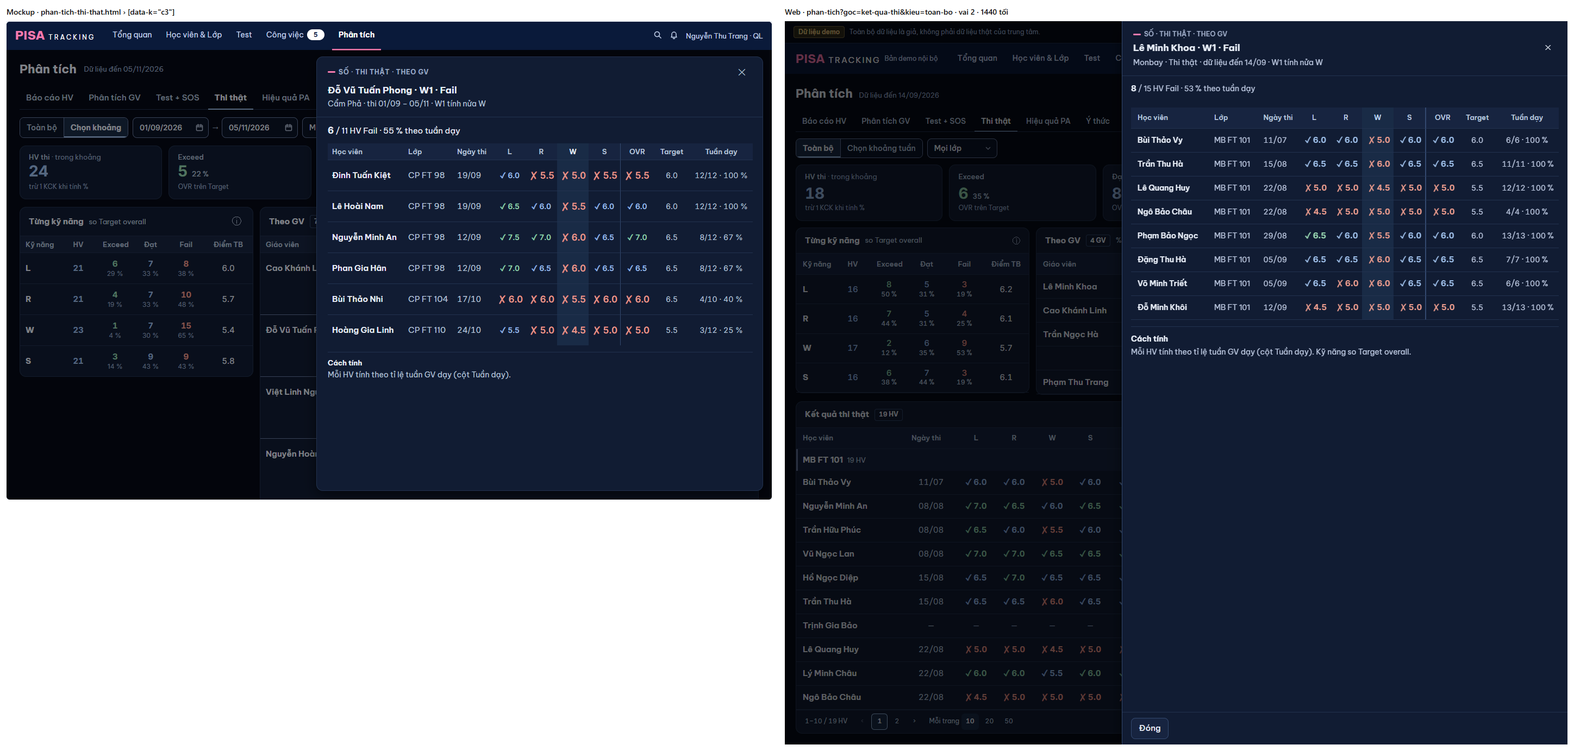
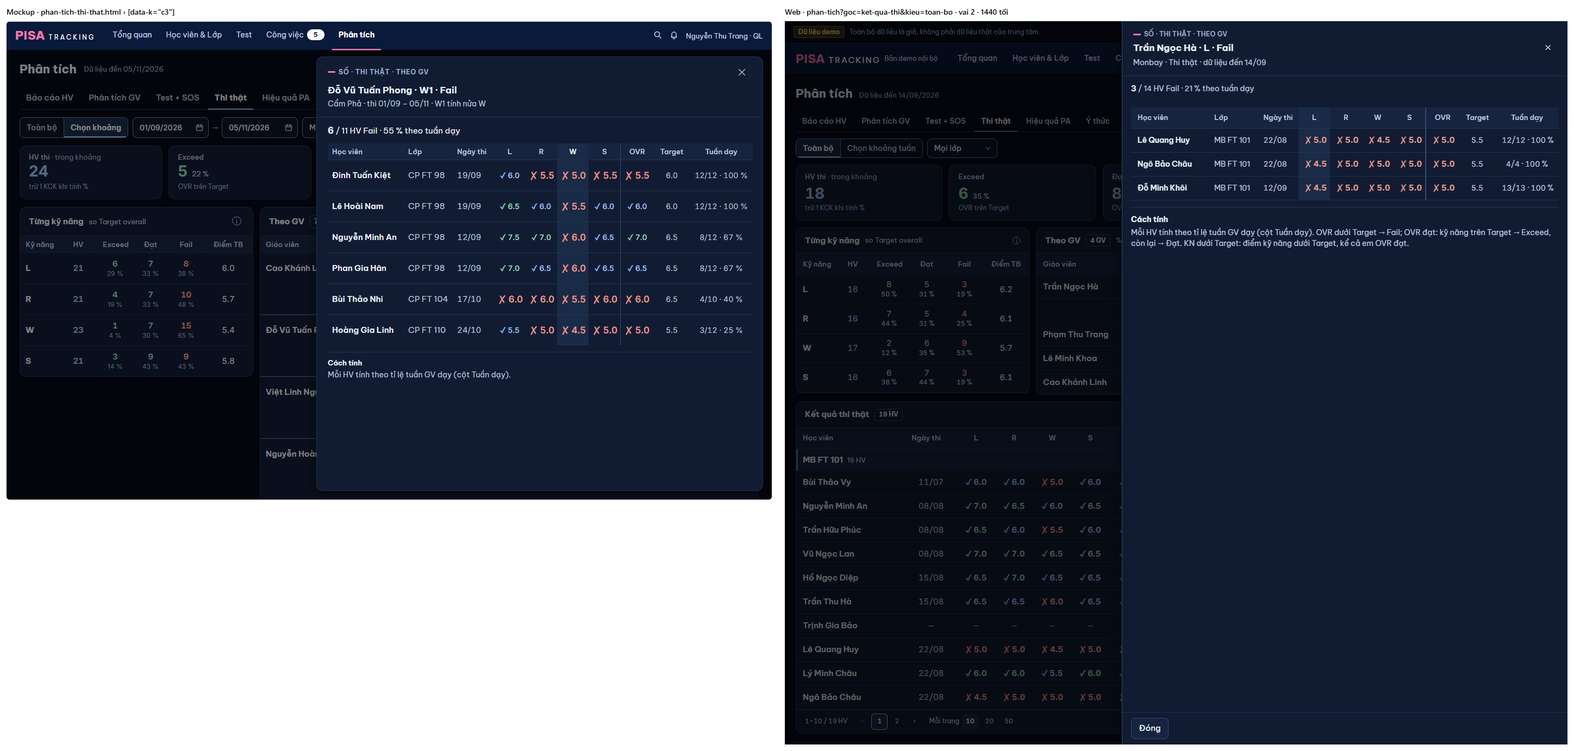
THI-THAT (chủ SP 05/11): Theo GV theo OVR (OVR đạt → Đạt / Exceed) + cột KN dưới Target; so-sanh.md không ghi tên GV

diff --git a/shared/domain/thiThatThongKe.ts b/shared/domain/thiThatThongKe.ts
@@ -1,6 +1,6 @@
 /**
  * THỐNG KÊ THI THẬT (PR-4 THI-THAT, chủ SP 05/11 — đặc tả 2C · 2E · 2F, thay luật C10) — MỘT hàm cho tab Thi thật, Phân tích GV, hồ sơ GV.
- *   Exceed / Đạt / Fail = điểm > · = · < Target overall (OVR cho Tổng; band kỹ năng cho Từng kỹ năng / Theo GV).
+ *   Exceed / Đạt / Fail = điểm > · = · < Target overall (OVR cho Tổng; band kỹ năng cho Từng kỹ năng). Theo GV (chủ SP 05/11): OVR quyết Đạt / Fail, Exceed khi OVR đạt và kỹ năng > Target; "KN dưới Target" riêng.
  *   KCK và em không có Target: đếm ở "HV thi", không vào Exceed / Đạt / Fail. "Không thi" đếm riêng.
  *   Thi lại một kỹ năng (#969): chỉ kỹ năng thi lần này vào Từng kỹ năng / Theo GV; OVR vẫn vào Tổng.
  *   Theo GV: mọi GV từng dạy kỹ năng cho em; trọng số = tuần GV dạy ÷ tổng tuần em học kỹ năng đó (cộng mọi GV). W thi thật → W1 và W2 (mỗi task một dòng).
@@ -22,11 +22,17 @@ export type KqThi = {
 };
 /** Tuần MỘT GV dạy MỘT kỹ năng cho MỘT em trong lộ trình, tới ngày thi. */
 export type DoanDay = { userId: number; kn: KnDay; tuan: number };
-/** Một mục của dòng GV: em (lộ trình) · mức · band · tuần GV dạy / tổng tuần em học kỹ năng · trọng số. */
-export type MucGv = { cycleId: number; muc: MucThi; band: number; tuan: number; tongTuan: number; w: number };
+/**
+ * Một mục của dòng GV: em (lộ trình) · mức · band · tuần GV dạy / tổng tuần em học kỹ năng · trọng số.
+ * Chủ SP 05/11 (sau #978): `muc` theo OVR — OVR < Target → Fail; OVR ≥ Target: band kỹ năng GV dạy > Target → Exceed, còn lại → Đạt.
+ * `duoi`: band kỹ năng < Target (kể cả em OVR đạt) — cột "KN dưới Target" riêng.
+ */
+export type MucGv = { cycleId: number; muc: MucThi; duoi: boolean; band: number; tuan: number; tongTuan: number; w: number };
+/** Mức của em ở dòng GV (chủ SP 05/11): OVR quyết Đạt / Fail; Exceed khi OVR đạt và band kỹ năng GV dạy > Target. */
+export const mucThiGv = (ovr: number, band: number, target: number): MucThi => (ovr < target ? 'fail' : band > target ? 'exceed' : 'dat');
 export type DemMuc = { exceed: number; dat: number; fail: number };
-/** `exceed` · `dat` · `fail` = % theo trọng số; `so` = số HV từng nhóm (= số dòng panel). */
-export type DongGvThi = { userId: number; kn: KnDay; hv: number; tuan: number; tb: number | null; ds: MucGv[]; so: DemMuc } & DemMuc;
+/** `exceed` · `dat` · `fail` · `duoi` (KN dưới Target) = % theo trọng số; `so` = số HV từng nhóm (= số dòng panel). */
+export type DongGvThi = { userId: number; kn: KnDay; hv: number; tuan: number; tb: number | null; ds: MucGv[]; so: DemMuc & { duoi: number }; duoi: number } & DemMuc;
 export type ThongKeThiThat = {
   tong: { thi: number; khongThi: number; kck: number } & DemMuc;
   kyNang: Record<KnThiThat, { hv: number; tb: number | null } & DemMuc>;
@@ -56,7 +62,7 @@ export function thongKeThiThat(kq: readonly KqThi[], day: ReadonlyMap<number, re
   })) as ThongKeThiThat['kyNang'];
 
   const theoGv = new Map<string, { userId: number; kn: KnDay; ds: MucGv[] }>();
-  for (const k of coMuc) {
+  for (const k of coMuc.filter((x) => x.ovr !== null)) {
     const doan = day.get(k.cycleId) ?? [];
     for (const kn of KN_DAY) {
       const band = k[knThi(kn)];
@@ -69,15 +75,16 @@ export function thongKeThiThat(kq: readonly KqThi[], day: ReadonlyMap<number, re
       for (const [userId, tuan] of gop) {
         const khoa = `${userId}:${kn}`;
         (theoGv.get(khoa) ?? theoGv.set(khoa, { userId, kn, ds: [] }).get(khoa)!).ds
-          .push({ cycleId: k.cycleId, muc: mucThi(band, k.target!), band, tuan, tongTuan, w: tuan / tongTuan });
+          .push({ cycleId: k.cycleId, muc: mucThiGv(k.ovr!, band, k.target!), duoi: band < k.target!, band, tuan, tongTuan, w: tuan / tongTuan });
       }
     }
   }
   const tl = (ds: MucGv[], m: MucThi) => ds.filter((x) => x.muc === m).reduce((a, x) => a + x.w, 0);
   const sw = (ds: MucGv[]) => ds.reduce((a, x) => a + x.w, 0);
   const gv: DongGvThi[] = [...theoGv.values()].map(({ userId, kn, ds }) => ({
-    userId, kn, hv: ds.length, tuan: ds.reduce((a, x) => a + x.tuan, 0), tb: mot(ds.reduce((a, x) => a + x.w * x.band, 0) / sw(ds)), ds, so: dem(ds.map((x) => x.muc)),
+    userId, kn, hv: ds.length, tuan: ds.reduce((a, x) => a + x.tuan, 0), tb: mot(ds.reduce((a, x) => a + x.w * x.band, 0) / sw(ds)), ds, so: { ...dem(ds.map((x) => x.muc)), duoi: ds.filter((x) => x.duoi).length },
     exceed: pt(tl(ds, 'exceed'), sw(ds)), dat: pt(tl(ds, 'dat'), sw(ds)), fail: pt(tl(ds, 'fail'), sw(ds)),
+    duoi: pt(ds.filter((x) => x.duoi).reduce((a, x) => a + x.w, 0), sw(ds)),
   }));
   /* GV có Fail (trọng số, mọi kỹ năng) cao nhất trước; trong một GV: L R W1 W2 S. */
   const failGv = new Map<number, number>();

diff --git a/server/src/tests/prThiThatTk.tests.ts b/server/src/tests/prThiThatTk.tests.ts
@@ -46,8 +46,8 @@ export async function runPrThiThatTkTests(t: any) {
     assert(g && g.hv === 2 && g.tuan === 12, `GV 10 · L: 2 em (em tổng 0 không vào), 12 tuần: ${JSON.stringify(g)}`);
     const m = g.ds.find((x: any) => x.cycleId === a.cycleId);
     assert(Math.abs(m.w - 0.67) < 0.01 && m.tuan === 8 && m.tongTuan === 12, `trọng số 8/12: ${JSON.stringify(m)}`);
-    /* fail 0.67 · exceed 1 → fail 40 %, exceed 60 % */
-    assert(g.fail === 40 && g.exceed === 60 && g.dat === 0, `% trọng số: ${JSON.stringify(g)}`);
+    /* Chủ SP 05/11: OVR 6 = Target → không Fail; a (L 5.5) Đạt + dưới Target 0.67 · b (L 6.5) Exceed 1 → Đạt 40 %, Exceed 60 %, KN dưới Target 40 %. */
+    assert(g.fail === 0 && g.exceed === 60 && g.dat === 40 && g.duoi === 40 && g.so.duoi === 1, `% trọng số: ${JSON.stringify(g)}`);
     assert(!r.gv.some((x: any) => x.ds.some((m: any) => m.cycleId === c.cycleId)), 'em tổng tuần 0 không vào gv');
   });
 
@@ -58,15 +58,23 @@ export async function runPrThiThatTkTests(t: any) {
       [k.cycleId, [{ userId: 3, kn: 'l', tuan: 6 }]],
     ]);
     const r = d.thongKeThiThat([a, k], day);
-    assert(r.gv.some((x: any) => x.userId === 1 && x.kn === 'w1' && x.fail === 100), 'W1 có mục fail');
+    assert(r.gv.some((x: any) => x.userId === 1 && x.kn === 'w1' && x.dat === 100 && x.duoi === 100), 'W1: OVR đạt → Đạt, W 5 → KN dưới Target');
     assert(r.gv.some((x: any) => x.userId === 2 && x.kn === 'w2'), 'W2 có mục');
     assert(!r.gv.some((x: any) => x.userId === 3), 'L lấy lại + KCK: GV L không có mục');
   });
 
+  check('THI-THAT · Theo GV theo OVR (chủ SP 05/11): OVR đạt + kỹ năng dưới Target → Đạt + KN dưới; OVR trượt + kỹ năng trên Target → Fail', () => {
+    assert(d.mucThiGv(6, 5.5, 6) === 'dat' && d.mucThiGv(6.5, 7, 6) === 'exceed' && d.mucThiGv(5.5, 7, 6) === 'fail', 'mucThiGv');
+    const a = kq({ ovr: 6.5, r: 5.5, target: 6 }), b = kq({ ovr: 5.5, r: 7, target: 6 });
+    const day = new Map<number, unknown[]>([[a.cycleId, [{ userId: 1, kn: 'r', tuan: 1 }]], [b.cycleId, [{ userId: 1, kn: 'r', tuan: 1 }]]]);
+    const g = d.thongKeThiThat([a, b], day).gv[0];
+    assert(g.so.dat === 1 && g.so.fail === 1 && g.so.exceed === 0 && g.so.duoi === 1 && g.duoi === 50, JSON.stringify(g));
+  });
+
   check('THI-THAT · GV xếp Fail cao trước, trong GV theo L R W1 W2 S', () => {
-    const a = kq({ l: 5, r: 7, s: 5, target: 6 });
-    const day = new Map<number, unknown[]>([[a.cycleId, [{ userId: 1, kn: 's', tuan: 1 }, { userId: 1, kn: 'r', tuan: 1 }, { userId: 2, kn: 'l', tuan: 1 }]]]);
-    const r = d.thongKeThiThat([a], day);
+    const a = kq({ ovr: 6.5, r: 7, s: 5, target: 6 }), b = kq({ ovr: 5.5, l: 5, target: 6 });
+    const day = new Map<number, unknown[]>([[a.cycleId, [{ userId: 1, kn: 's', tuan: 1 }, { userId: 1, kn: 'r', tuan: 1 }]], [b.cycleId, [{ userId: 2, kn: 'l', tuan: 1 }]]]);
+    const r = d.thongKeThiThat([a, b], day);
     assert(r.gv.map((x: any) => `${x.userId}${x.kn}`).join(',') === '2l,1r,1s', `thứ tự: ${r.gv.map((x: any) => `${x.userId}${x.kn}`)}`);
   });
 
@@ -104,9 +112,9 @@ export async function runPrThiThatTkTests(t: any) {
     const r = tk.thiThatTab(P.mbManager, f);
     const w1 = r.thongKe.gv.filter((g: any) => g.kn === 'w1');
     const moi = w1.find((g: any) => g.userId === P.w1Teacher.userId), cu = w1.find((g: any) => g.userId === P.lrTeacher.userId);
-    assert(moi && moi.tuan === 8 && moi.fail === 100, `GV W1 8 tuần, Fail 100 %: ${JSON.stringify(w1)}`);
+    assert(moi && moi.tuan === 8 && moi.dat === 100 && moi.duoi === 100, `GV W1 8 tuần, OVR = Target → Đạt 100 %, W 5.5 → KN dưới Target 100 %: ${JSON.stringify(w1)}`);
     assert(cu && cu.tuan === 4, `GV cũ 4 tuần: ${JSON.stringify(cu)}`);
-    const o = tk.oThiThat(P.mbManager, { ...f, o: `gv:${P.w1Teacher.userId}:w1:fail` });
+    const o = tk.oThiThat(P.mbManager, { ...f, o: `gv:${P.w1Teacher.userId}:w1:duoi` });
     const r0 = o.rows[0]?.thiThat;
     assert(o.n === 1 && r0.cycleId === cy && r0.tuan.day === 8 && r0.tuan.tong === 12 && r0.kn.w.kq === 'duoi' && r0.ovr.kq === 'bang', `panel P-GV 8/12: ${JSON.stringify(o.rows)}`);
     assert(o.kieu === 'thi-that' && o.knNhan === 'W1', 'kiểu thi-that, cột W1 tô nền');
@@ -132,7 +140,7 @@ export async function runPrThiThatTkTests(t: any) {
     for (const m of ['exceed', 'dat', 'fail']) so(`tong:${m}`, r.thongKe.tong[m]);
     for (const k of ['l', 'r', 'w', 's']) for (const m of ['hv', 'exceed', 'dat', 'fail']) so(`kn:${k}:${m}`, r.thongKe.kyNang[k][m]);
     for (const g of r.thongKe.gv) {
-      so(`gv:${g.userId}:${g.kn}:hv`, g.hv);
+      so(`gv:${g.userId}:${g.kn}:hv`, g.hv); so(`gv:${g.userId}:${g.kn}:duoi`, g.so.duoi);
       const c = ['exceed', 'dat', 'fail'].reduce((a, m) => a + n(`gv:${g.userId}:${g.kn}:${m}`), 0);
       if (c !== g.hv) sai.push(`gv ${g.userId} ${g.kn}: E+Đ+F ${c} ≠ ${g.hv}`);
     }

diff --git a/web/src/modules/phanTich/KetQuaThi.tsx b/web/src/modules/phanTich/KetQuaThi.tsx
@@ -157,11 +157,12 @@ function BangKyNang({ tk, so }: { tk: ThongKeThiThatWeb; so: So }) {
 const cachTinhGv = (
   <>
     <p className="m-0">{t('Mọi GV từng dạy kỹ năng cho HV đều tính. % theo tuần dạy: mỗi HV tính theo tuần GV dạy kỹ năng đó ÷ tổng tuần HV học kỹ năng đó, tới ngày thi.')}</p>
+    <p className="m-0 mt-1">{t('OVR dưới Target → Fail; OVR đạt: kỹ năng GV dạy trên Target → Exceed, còn lại → Đạt. KN dưới Target: điểm kỹ năng dưới Target, kể cả HV OVR đạt (cột riêng, không cộng vào Exceed · Đạt · Fail).')}</p>
     <p className="m-0 mt-1">{t('W1 / W2: mỗi task tính nửa W, cùng band W thi thật. GV có Fail cao trước.')}</p>
   </>
 );
 /** % một nhóm của dòng GV: số = % theo tuần dạy; bấm → HV của nhóm đó (số dòng = HV, đầu panel ghi %). 0 HV → "0 %" mờ. */
-const oPct = (g: DongGvThiWeb, m: MucThi, so: So) => so(g.so[m], `gv:${g.userId}:${g.kn}:${m}`, `${g.ten} · ${NHAN_KN[g.kn]} · ${NHAN_MUC[m]}`, MAU_MUC[m], `${g[m]} %`);
+const oPct = (g: DongGvThiWeb, m: MucThi | 'duoi', so: So) => so(g.so[m], `gv:${g.userId}:${g.kn}:${m}`, `${g.ten} · ${NHAN_KN[g.kn]} · ${m === 'duoi' ? t('KN dưới Target') : NHAN_MUC[m]}`, MAU_MUC[m === 'duoi' ? 'fail' : m], `${g[m]} %`);
 const nhomGv = (gv: DongGvThiWeb[]) => {
   const ds: { userId: number; ten: string; hang: DongGvThiWeb[] }[] = [];
   for (const g of gv) { const cu = ds.find((x) => x.userId === g.userId); if (cu) cu.hang.push(g); else ds.push({ userId: g.userId, ten: g.ten, hang: [g] }); }
@@ -177,10 +178,11 @@ function BangGv({ gv, so }: { gv: DongGvThiWeb[]; so: So }) {
       {!nhom.length ? <p className="m-0 p-4 text-sm text-dim">{t('Chưa có phân công kỹ năng cho HV thi trong khoảng này.')}</p> : (
         <div className="table-scroll">
           <table className="w-full" style={{ tableLayout: 'fixed', minWidth: 660 }}>
-            <colgroup><col style={{ width: 180 }} /><col style={{ width: 70 }} /><col style={{ width: 56 }} /><col style={{ width: 80 }} /><col style={{ width: 80 }} /><col /><col /><col /></colgroup>
+            <colgroup><col style={{ width: 170 }} /><col style={{ width: 64 }} /><col style={{ width: 52 }} /><col style={{ width: 76 }} /><col style={{ width: 76 }} /><col /><col /><col /><col style={{ width: 124 }} /></colgroup>
             <thead><tr>
               <th className="th">{t('Giáo viên')}</th><th className="th">{t('Kỹ năng')}</th><th className="th text-center">HV</th><th className="th text-center">{t('Tuần dạy')}</th>
               <th className="th text-center">{t('Điểm TB')}</th>{MUC.map((m) => <th key={m} className="th text-center">{NHAN_MUC[m]}</th>)}
+              <th className="th border-l text-center" style={{ borderColor: 'var(--line)' }}>{t('KN dưới Target')}</th>
             </tr></thead>
             <tbody>
               {nhom.map((n, i) => n.hang.map((g, j) => (
@@ -191,6 +193,7 @@ function BangGv({ gv, so }: { gv: DongGvThiWeb[]; so: So }) {
                   <td className="td text-center tabular-nums text-dim">{g.tuan}</td>
                   <td className="td text-center tabular-nums">{g.tb === null ? '—' : fmtBand(g.tb)}</td>
                   {MUC.map((m) => <td key={m} className="td text-center">{oPct(g, m, so)}</td>)}
+                  <td className="td border-l text-center" style={{ borderColor: 'var(--line)' }}>{oPct(g, 'duoi', so)}</td>
                 </tr>
               )))}
             </tbody>
@@ -216,9 +219,9 @@ function TheGv({ gv, so }: { gv: DongGvThiWeb[]; so: So }) {
           {n.hang.map((g) => (
             <div key={g.kn} className="grid grid-cols-[28px_1fr] items-center gap-2 border-t pt-1.5" style={{ borderColor: 'var(--line)' }}>
               <b className="text-sm">{NHAN_KN[g.kn]}</b>
-              <div className="grid grid-cols-6 gap-1">
+              <div className="grid grid-cols-4 gap-x-1 gap-y-1.5">
                 {o('HV', so(g.hv, `gv:${g.userId}:${g.kn}:hv`, `HV · ${g.ten} · ${NHAN_KN[g.kn]}`))}{o(t('Tuần'), <span className="font-normal text-dim">{g.tuan}</span>)}
-                {o('TB', g.tb === null ? '—' : fmtBand(g.tb))}{MUC.map((m) => <Fragment key={m}>{o(NHAN_MUC[m], oPct(g, m, so))}</Fragment>)}
+                {o('TB', g.tb === null ? '—' : fmtBand(g.tb))}{MUC.map((m) => <Fragment key={m}>{o(NHAN_MUC[m], oPct(g, m, so))}</Fragment>)}{o(t('KN dưới'), oPct(g, 'duoi', so))}
               </div>
             </div>
           ))}

diff --git a/server/src/phanTich/thiThatThongKe.ts b/server/src/phanTich/thiThatThongKe.ts
@@ -80,17 +80,17 @@ export function thiThatTab(p: Principal, f: LocKetQuaThi): ThiThatTabKq {
   };
 }
 
-const NHAN_MUC = { hv: 'HV', exceed: 'Exceed', dat: 'Đạt', fail: 'Fail' } as const;
+const NHAN_MUC = { hv: 'HV', exceed: 'Exceed', dat: 'Đạt', fail: 'Fail', duoi: 'KN dưới Target' } as const;
 const NHAN_KN: Record<KnDay | KnThiThat, string> = { l: 'L', r: 'R', w: 'W', w1: 'W1', w2: 'W2', s: 'S' };
 
 /**
  * GET /phan-tich/thi-that/o — panel một ô. `o`: `tong:<thi|exceed|dat|fail|khong-thi>` · `kn:<l|r|w|s>:<hv|exceed|dat|fail>` ·
- * `gv:<userId>:<l|r|w1|w2|s>:<hv|exceed|dat|fail>` (chỉ vai Theo GV — 403). Lọc CHÍNH tập sinh ra số.
+ * `gv:<userId>:<l|r|w1|w2|s>:<hv|exceed|dat|fail|duoi>` (chỉ vai Theo GV — 403). Lọc CHÍNH tập sinh ra số.
  */
 export function oThiThat(p: Principal, f: LocKetQuaThi & { o: string }): {
   n: number; tieuDe: string; rows: { id: number; thiThat: DongThiThatBang }[]; bangLuot: true; kieu: 'thi-that'; knNhan: string | null; cachTinh: string; chiNhanh: string | null; dem: string | null;
 } {
-  const m = /^(?:tong:(thi|exceed|dat|fail|khong-thi)|kn:([lrws]):(hv|exceed|dat|fail)|gv:(\d+):(l|r|w1|w2|s):(hv|exceed|dat|fail))$/.exec(f.o);
+  const m = /^(?:tong:(thi|exceed|dat|fail|khong-thi)|kn:([lrws]):(hv|exceed|dat|fail)|gv:(\d+):(l|r|w1|w2|s):(hv|exceed|dat|fail|duoi))$/.exec(f.o);
   if (!m) throw badRequest('Số này không có trong Thi thật — có thể bộ lọc vừa đổi.');
   if (m[4] && !coTheoGv(p)) throw forbidden('Theo GV dành cho Quản lý, Quản trị và CX.');
   const ds = thiThatTrongKhoang(p, f, { boQuyen: true });
@@ -120,13 +120,13 @@ export function oThiThat(p: Principal, f: LocKetQuaThi & { o: string }): {
     const user = Number(m[4]), kn = m[5] as KnDay;
     const g = thongKeThiThat(ds.map((x) => x.kq), tuanDay(ds).day).gv.find((x) => x.userId === user && x.kn === kn);
     const theoId = new Map(ds.map((x) => [x.kq.cycleId, x]));
-    rows = (g?.ds ?? []).filter((x) => m[6] === 'hv' || x.muc === m[6]).map((x) => dong(theoId.get(x.cycleId)!, { day: x.tuan, tong: x.tongTuan }));
+    rows = (g?.ds ?? []).filter((x) => m[6] === 'hv' || (m[6] === 'duoi' ? x.duoi : x.muc === m[6])).map((x) => dong(theoId.get(x.cycleId)!, { day: x.tuan, tong: x.tongTuan }));
     /* C3: "6 / 11 HV Fail · 55 % theo tuần dạy" — số HV của nhóm / HV của dòng GV, % trọng số (số trên ô). */
-    if (g && m[6] !== 'hv') dem = t('{a} / {b} HV {nhan} · {pt} % theo tuần dạy', { a: rows.length, b: g.hv, nhan: NHAN_MUC[m[6] as 'fail'], pt: g[m[6] as 'fail'] });
+    if (g && m[6] !== 'hv') dem = t('{a} / {b} HV {nhan} · {pt} % theo tuần dạy', { a: rows.length, b: g.hv, nhan: NHAN_MUC[m[6] as 'fail'], pt: g[m[6] as 'fail' | 'duoi'] });
     nhan = `${NHAN_MUC[m[6] as 'hv']} · ${NHAN_KN[kn]}`;
     knNhan = NHAN_KN[kn];
   }
-  const cachTinh = m[4] ? 'Mỗi HV tính theo tỉ lệ tuần GV dạy (cột Tuần dạy). Kỹ năng so Target overall.'
+  const cachTinh = m[4] ? 'Mỗi HV tính theo tỉ lệ tuần GV dạy (cột Tuần dạy). OVR dưới Target → Fail; OVR đạt: kỹ năng trên Target → Exceed, còn lại → Đạt. KN dưới Target: điểm kỹ năng dưới Target, kể cả em OVR đạt.'
     : m[2] ? 'Điểm kỹ năng so Target overall. Thi lại một kỹ năng: chỉ kỹ năng thi lần này. Không tính HV KCK.'
       : 'OVR so Target: trên = Exceed · bằng = Đạt · dưới = Fail. HV KCK không vào %.';
   return { n: rows.length, tieuDe: t('{nhan} · {n} HV', { nhan, n: rows.length }), rows: rows.map((r, i) => ({ id: i + 1, thiThat: r })), bangLuot: true, kieu: 'thi-that', knNhan, cachTinh, chiNhanh: tenChiNhanh(f.branchId), dem };

diff --git a/shared/i18n/en/thiThat.ts b/shared/i18n/en/thiThat.ts
@@ -6,7 +6,7 @@ export const EN_THI_THAT = {
   '{nhan} · {n} HV': (b) => `${b.nhan} · ${b.n} ${Number(b.n) === 1 ? 'student' : 'students'}`,
   'tuần dạy {a}/{b}': 'taught {a}/{b} weeks',
   '{nhan} · {ai} · {dung}/{tong} lượt kỹ năng': '{nhan} · {ai} · {dung}/{tong} skill results',
-  'Mỗi HV tính theo tỉ lệ tuần GV dạy (cột Tuần dạy). Kỹ năng so Target overall.': 'Each student counts by the share of weeks this teacher taught (Weeks taught column). Skills are compared with the overall Target.',
+  'Mỗi HV tính theo tỉ lệ tuần GV dạy (cột Tuần dạy). OVR dưới Target → Fail; OVR đạt: kỹ năng trên Target → Exceed, còn lại → Đạt. KN dưới Target: điểm kỹ năng dưới Target, kể cả em OVR đạt.': 'Each student counts by the share of weeks this teacher taught (Weeks taught column). OVR below Target → Fail; OVR met: skill above Target → Exceed, otherwise → Pass. Skill below Target: skill band below Target, even when OVR is met.',
   'Điểm kỹ năng so Target overall. Thi lại một kỹ năng: chỉ kỹ năng thi lần này. Không tính HV KCK.': 'Skill band compared with the overall Target. Resit of one skill: only the skill sat this time. KCK students not counted.',
   'OVR so Target: trên = Exceed · bằng = Đạt · dưới = Fail. HV KCK không vào %.': 'OVR vs Target: above = Exceed · equal = Pass · below = Fail. KCK students are left out of %.',
   'trong khoảng': "in range",
@@ -37,4 +37,8 @@ export const EN_THI_THAT = {
   '{a} / {b} HV {nhan} · {pt} % theo tuần dạy': '{a} / {b} students {nhan} · {pt} % by weeks taught',
   'SỐ · THI THẬT · THEO GV': 'NUMBER · REAL EXAM · BY TEACHER',
   '{kn} tính nửa W': '{kn} counts as half of W',
+  'dưới Target': 'below Target',
+  'KN dưới Target': 'Skill below Target',
+  'OVR dưới Target → Fail; OVR đạt: kỹ năng GV dạy trên Target → Exceed, còn lại → Đạt. KN dưới Target: điểm kỹ năng dưới Target, kể cả HV OVR đạt (cột riêng, không cộng vào Exceed · Đạt · Fail).': 'OVR below Target → Fail; OVR met: skill this teacher taught above Target → Exceed, otherwise → Pass. Skill below Target: skill band below Target, even when OVR is met (separate column, not part of Exceed · Pass · Fail).',
+  'KN dưới': 'Skill below',
 } satisfies Record<string, Dich>;

diff --git a/server/src/tests/prPtGvOverall.tests.ts b/server/src/tests/prPtGvOverall.tests.ts
@@ -74,7 +74,7 @@ export async function runPrPtGvOverallTests(t: YThucTestKit) {
     assert(ketQuaEm(e.sid, 'reading') === null && ketQuaEm(e.sid, 'listening') === null, 'không vào mẫu');
   }));
   /* 2F (chủ SP 05/11) thay C10: thi thật KHÔNG còn ở cột Kết quả Test; mỗi kỹ năng so Target overall (OVR đạt không kéo kỹ năng thành Đạt), mọi GV từng dạy. */
-  check('THI-THAT 2F · OVR 6.5 = Target nhưng R 5.5 → R Fail cho GV R; L 7.0 → Exceed; W → cả GV W2; không vào cột Kết quả Test', () => thu(() => {
+  check('THI-THAT 2F (chủ SP 05/11) · OVR 6.5 = Target, R 5.5 → GV R vẫn Đạt + ghi dưới Target; L 7.0 → Exceed; W → cả GV W2; không vào cột Kết quả Test', () => thu(() => {
     const e = emMoi();
     boLichTuTao(conn, e.cy);
     conn.prepare(`UPDATE learning_cycles SET thi_that_ngay = ?, thi_that_l = 7.0, thi_that_r = 5.5, thi_that_w = 6.5, thi_that_s = 7.0, outcome_score = 6.5, outcome = 'reached' WHERE id = ?`).run(D, e.cy);
@@ -84,7 +84,8 @@ export async function runPrPtGvOverallTests(t: YThucTestKit) {
       const gv = get(`SELECT user_id FROM teacher_assignments WHERE class_id = ? AND skill = ? AND status = 'active' ORDER BY id DESC LIMIT 1`, MB_FT, skill)?.user_id;
       return pt.oChiSoHoSoGv(P.admin, gv, { tu: tuanNay, den: tuanNay, cot: `thi-that-ky:${skill}` }).rows.find((x: any) => x.href === `/hoc-vien/${e.sid}`);
     };
-    assert(dong('reading')?.ketQua === 'chua', `R 5.5 < 6.5 → Fail: ${JSON.stringify(dong('reading'))}`);
+    const r = dong('reading');
+    assert(r?.ketQua === 'dat' && /dưới Target/.test(r.sub), `OVR đạt → Đạt, R 5.5 ghi dưới Target: ${JSON.stringify(r)}`);
     const l = dong('listening');
     assert(l?.ketQua === 'dat' && l.vuot === true, `L 7.0 > 6.5 → Exceed: ${JSON.stringify(l)}`);
     assert(dong('writing2')?.ketQua === 'dat', 'W thi thật tính cho GV W2');

diff --git a/server/src/phanTich/giaoVien.ts b/server/src/phanTich/giaoVien.ts
@@ -898,7 +898,7 @@ function oChiSoHoSoGvDu(p: Principal, gvId: number, q: { tu?: string | null; den
         diemHv: { luot: t('Thi thật'), tuan: x.ngayThi ?? '', tam: false, overall: kq.ovr, soVoi,
           kn: (['l', 'r', 'w', 's'] as const).map((k) => ({ k: k.toUpperCase(), v: kq[k], dat: kq[k] === null || kq.target === null ? null : kq[k]! >= kq.target, cua: k === m.kn[0] })) },
         /* một em có thể có nhiều mục (nhiều kỹ năng, hai lần thi) — id theo dòng */ id: i + 1, title: x.ten, href: `/hoc-vien/${x.studentId}`, lop: x.lop,
-        sub: [x.lop, `${t('Thi thật')} ${ngay}`, `${kn} ${m.band.toFixed(1)}`, soVoi ? `Target ${soVoi.v.toFixed(1)}` : null,
+        sub: [x.lop, `${t('Thi thật')} ${ngay}`, `${kn} ${m.band.toFixed(1)}${m.duoi ? ` (${t('dưới Target')})` : ''}`, soVoi ? `Target ${soVoi.v.toFixed(1)}` : null,
           t('tuần dạy {a}/{b}', { a: m.tuan, b: m.tongTuan }), NHAN_MUC_THI[m.muc]].filter(Boolean).join(' · '),
       };
     });

diff --git a/docs/anh/thi-that/so-sanh.md b/docs/anh/thi-that/so-sanh.md
@@ -1,35 +1,35 @@
-# THI-THAT — so số thi thật theo GV: luật C10 (trước) → luật 2F (sau), bản sao 29/10
+# THI-THAT — so số thi thật theo GV: luật C10 (trước) → luật mới (sau), bản sao 29/10
 
-Nguồn: `pisa-pisatracking-261028-pizi147-2026-10-29-2255.sqlite` (chép vào scratchpad, migrate cục bộ cho có cột `thi_that_lay_lai`), **chỉ đọc**.
+Nguồn: bản sao Turso 29/10 (chép vào scratchpad, migrate cục bộ cho có cột `thi_that_lay_lai`), **chỉ đọc**. GV ghi bằng mã (`users.id`) — dữ liệu thật, không ghi tên vào repo; bảng có tên: chạy lại với `CO_TEN=1`.
 Lệnh: `PISA_DB=<bản sao> node docs/anh/thi-that/so-sanh.mjs <thư mục repo>` (sau `npm run build:server`). Khoảng: toàn bộ.
 
 - Kết quả thi thật đủ 4 kỹ năng: **20** (10/10 – 25/10), KCK 0.
-- Phân công thiếu `effective_to`: **416** dòng kỹ năng + 88 GVCN — **đều `active`** (đang dạy); dòng `ended` thiếu ngày: **0**. Luật mới tính tới ngày thi → không cần rơi về "mỗi GV từng dạy = 1 em".
-- Trước: Pass Target theo LẦN THI, chỉ GV lớp lúc thi, OVR đạt → mọi kỹ năng Đạt. Sau: mục = em × kỹ năng GV từng dạy (W1 / W2 riêng), kỹ năng so Target overall, % theo tuần dạy.
-- **10 / 23 dòng GV đổi %** (ví dụ Thea Marie Gemino 38 % → 0 %: em đạt OVR nhưng kỹ năng cô dạy dưới Target; Đoàn Thị Thanh Phương MB 0 % → 100 %: OVR trượt nhưng kỹ năng cô dạy đạt). Weighted ≈ không trọng số vì bản sao hầu như một GV / kỹ năng / em.
+- Phân công thiếu `effective_to`: **416** dòng kỹ năng + 88 GVCN — **đều `active`**; dòng `ended` thiếu ngày: **0** → tính tới ngày thi, không cần rơi về "mỗi GV từng dạy = 1 em".
+- Trước (C10): Pass Target theo LẦN THI, chỉ GV lớp lúc thi. Sau (chủ SP 05/11, sửa #978): mục = em × kỹ năng GV từng dạy (W1 / W2 riêng), **OVR quyết Đạt / Fail** (OVR đạt → Đạt; Exceed khi kỹ năng GV dạy > Target), % theo tuần dạy; cột riêng **KN dưới Target** (kỹ năng < Target, kể cả em OVR đạt).
+- **% Pass đổi: 1 / 23 dòng GV** (GV #1 · CP: 60 % → 67 % — tính thêm em GV từng dạy ở lớp trước). KN dưới Target là số mới (không có ở C10).
 
-| Chi nhánh | GV | Trước (C10: Pass Target theo lần thi) | Sau (2F: mục em × kỹ năng, % theo tuần dạy) |
-|---|---|---|---|
-| BC | Đinh Nguyễn Bảo Phúc | 1/1 lần thi · 100 % | 1/2 mục · 50 % (tuần dạy) |
-| BC | Tô Trần Quốc Thắng | 1/1 lần thi · 100 % | 1/1 mục · 100 % (tuần dạy) |
-| BC | Trần Đoàn Lâm | 1/1 lần thi · 100 % | 2/2 mục · 100 % (tuần dạy) |
-| CP | Đỗ Vũ Tuấn Phong | 3/5 lần thi · 60 % | 5/9 mục · 56 % (tuần dạy) |
-| CP | Hoàng Thị Thu Hà | 3/4 lần thi · 75 % | 4/8 mục · 50 % (tuần dạy) |
-| CP | Miguel Stichini | 0/1 lần thi · 0 % | 0/1 mục · 0 % (tuần dạy) |
-| CP | Nguyễn Duy Anh | 0/3 lần thi · 0 % | 0/3 mục · 0 % (tuần dạy) |
-| CP | Nguyễn Hoàng Dũng | 0/5 lần thi · 0 % | 3/10 mục · 30 % (tuần dạy) |
-| CP | Nguyễn Thị Bảo Châu | 0/7 lần thi · 0 % | 4/14 mục · 29 % (tuần dạy) |
-| CP | Thea Marie Gemino | 3/8 lần thi · 38 % | 0/8 mục · 0 % (tuần dạy) |
-| CP | Trần Thị Thanh Hằng | 0/1 lần thi · 0 % | 0/1 mục · 0 % (tuần dạy) |
-| CP | Vũ Hương Liên | 0/3 lần thi · 0 % | 1/6 mục · 17 % (tuần dạy) |
-| MB | Deo Lumogdang | 0/2 lần thi · 0 % | 0/2 mục · 0 % (tuần dạy) |
-| MB | Đặng Thái Hà | 0/2 lần thi · 0 % | 0/2 mục · 0 % (tuần dạy) |
-| MB | Đoàn Thị Thanh Phương | 0/2 lần thi · 0 % | 2/2 mục · 100 % (tuần dạy) |
-| MB | Đỗ Hà Thu | 0/1 lần thi · 0 % | 2/2 mục · 100 % (tuần dạy) |
-| MB | Lê Trần Huy | 0/1 lần thi · 0 % | 0/2 mục · 0 % (tuần dạy) |
-| MB | Nguyễn Tường Vi | 0/1 lần thi · 0 % | 0/1 mục · 0 % (tuần dạy) |
-| MB | Trần Đoàn Lâm | 0/2 lần thi · 0 % | 0/4 mục · 0 % (tuần dạy) |
-| UB | Bùi Huy Thành | 0/1 lần thi · 0 % | 0/2 mục · 0 % (tuần dạy) |
-| UB | Đoàn Thị Thanh Phương | 0/1 lần thi · 0 % | 1/1 mục · 100 % (tuần dạy) |
-| UB | Tạ Hồng Liên | 0/1 lần thi · 0 % | 0/1 mục · 0 % (tuần dạy) |
-| UB | Trần Doãn Đạt | 0/1 lần thi · 0 % | 0/1 mục · 0 % (tuần dạy) |
+| Chi nhánh | GV | Trước (C10: Pass theo lần thi) | Sau (Pass theo OVR · mục em × kỹ năng · % tuần dạy) | KN dưới Target (% tuần dạy) | % Pass |
+|---|---|---|---|---|---|
+| BC | GV #18 | 1/1 lần thi · 100 % | 2/2 mục · 100 % | 0 % |  |
+| BC | GV #31 | 1/1 lần thi · 100 % | 1/1 mục · 100 % | 0 % |  |
+| BC | GV #41 | 1/1 lần thi · 100 % | 2/2 mục · 100 % | 50 % |  |
+| CP | GV #1 | 3/5 lần thi · 60 % | 6/9 mục · 67 % | 44 % | đổi |
+| CP | GV #16 | 0/7 lần thi · 0 % | 0/14 mục · 0 % | 71 % |  |
+| CP | GV #17 | 0/3 lần thi · 0 % | 0/3 mục · 0 % | 100 % |  |
+| CP | GV #21 | 0/5 lần thi · 0 % | 0/10 mục · 0 % | 70 % |  |
+| CP | GV #29 | 3/4 lần thi · 75 % | 6/8 mục · 75 % | 50 % |  |
+| CP | GV #30 | 0/3 lần thi · 0 % | 0/6 mục · 0 % | 83 % |  |
+| CP | GV #42 | 3/8 lần thi · 38 % | 3/8 mục · 38 % | 100 % |  |
+| CP | GV #43 | 0/1 lần thi · 0 % | 0/1 mục · 0 % | 100 % |  |
+| CP | GV #6 | 0/1 lần thi · 0 % | 0/1 mục · 0 % | 100 % |  |
+| MB | GV #13 | 0/1 lần thi · 0 % | 0/2 mục · 0 % | 0 % |  |
+| MB | GV #18 | 0/2 lần thi · 0 % | 0/4 mục · 0 % | 100 % |  |
+| MB | GV #24 | 0/1 lần thi · 0 % | 0/2 mục · 0 % | 100 % |  |
+| MB | GV #35 | 0/1 lần thi · 0 % | 0/1 mục · 0 % | 100 % |  |
+| MB | GV #5 | 0/2 lần thi · 0 % | 0/2 mục · 0 % | 100 % |  |
+| MB | GV #53 | 0/2 lần thi · 0 % | 0/2 mục · 0 % | 100 % |  |
+| MB | GV #8 | 0/2 lần thi · 0 % | 0/2 mục · 0 % | 0 % |  |
+| UB | GV #26 | 0/1 lần thi · 0 % | 0/1 mục · 0 % | 100 % |  |
+| UB | GV #40 | 0/1 lần thi · 0 % | 0/1 mục · 0 % | 100 % |  |
+| UB | GV #54 | 0/1 lần thi · 0 % | 0/2 mục · 0 % | 100 % |  |
+| UB | GV #8 | 0/1 lần thi · 0 % | 0/1 mục · 0 % | 0 % |  |

diff --git a/docs/anh/thi-that/khop-khac.md b/docs/anh/thi-that/khop-khac.md
@@ -10,6 +10,7 @@ Mockup: `thiet-ke/v13/phan-tich-thi-that.html`. Ảnh cặp mockup | web: `truoc
 | C1 | 5 thẻ: HV thi · Exceed · Đạt · Fail (số + %) · Không thi | `KetQuaThi.tsx` `DaiChiSo` | sau-c1 | KHỚP |
 | C1 | Từng kỹ năng (KN · HV · Exceed · Đạt · Fail · Điểm TB, % mờ dưới) | `BangKyNang` | sau-c1 | KHỚP |
 | C1 | Theo GV (GV × kỹ năng, Fail cao trước, tên GV dòng đầu, kẻ giữa GV) | `BangGv` | sau-c1 | KHỚP — chiều cao dòng giữ 44 px như bảng web (mockup ~56 px do lưới giãn) |
+| C1 | **Chủ SP 05/11 (sau #978):** Theo GV theo OVR (OVR < Target → Fail; OVR đạt: kỹ năng > Target → Exceed, còn lại Đạt) + cột riêng **KN dưới Target** (% tuần dạy, chữ đỏ, kẻ tách) | `mucThiGv`, `BangGv`, `TheGv` | sau-c1 · sau-c3 · sau-c4 | THÊM (ngoài mockup, theo lời chủ SP) |
 | C1 | Danh sách: L R W S · OVR · Target · Kết quả (Exceed / Đạt / Fail) · Bước tiếp | `DanhSach` | sau-c1 | KHỚP — giữ nhóm lớp, phân trang, Bước tiếp chỉ đọc |
 | C1 | Hàng lọc (thời gian, lớp), Xuất Excel | nền cũ | sau-c1 | GIỮ nền web (chủ SP 05/11: phần nền giữ web) — ô "Toàn bộ \| Chọn khoảng tuần" giữ, không đổi sang ô ngày |
 | C2 | Panel P-TT (cột kỹ năng đang xét tô nền) | `BangLuotPanel` kiểu `'thi-that'` | sau-c2 | KHỚP — khung panel cạnh phải như P-FT (#976) |
@@ -32,7 +33,8 @@ Mockup: `thiet-ke/v13/phan-tich-thi-that.html`. Ảnh cặp mockup | web: `truoc
 | Lọc thời gian · lớp · chi nhánh | có | có | GIỮ |
 | Phân trang 10 / 20 / 50 | có | có | GIỮ |
 | Tên em / mã lớp → hồ sơ | có | có (cả panel) | GIỮ |
-| Phân tích GV · hồ sơ GV "Kết quả thi thật" | % Pass Target theo lần thi, GV lớp cuối (C10) | % theo tuần dạy; n/m = mục em × kỹ năng GV từng dạy; panel một dòng một mục | ĐỔI SỐ, giữ bố cục (2F) |
+| Phân tích GV · hồ sơ GV "Kết quả thi thật" | % Pass Target theo lần thi, GV lớp cuối (C10) | % theo tuần dạy; n/m = mục em × kỹ năng GV từng dạy; Pass theo OVR (chủ SP 05/11); panel một dòng một mục, kỹ năng dưới Target ghi "(dưới Target)" | ĐỔI SỐ, giữ bố cục (2F) |
+| Bấm % "KN dưới Target" (Theo GV) | không có | panel em có điểm kỹ năng đó < Target (kể cả OVR đạt) | THÊM (chủ SP 05/11) |
 
 ## [XM] gửi PTA
 
